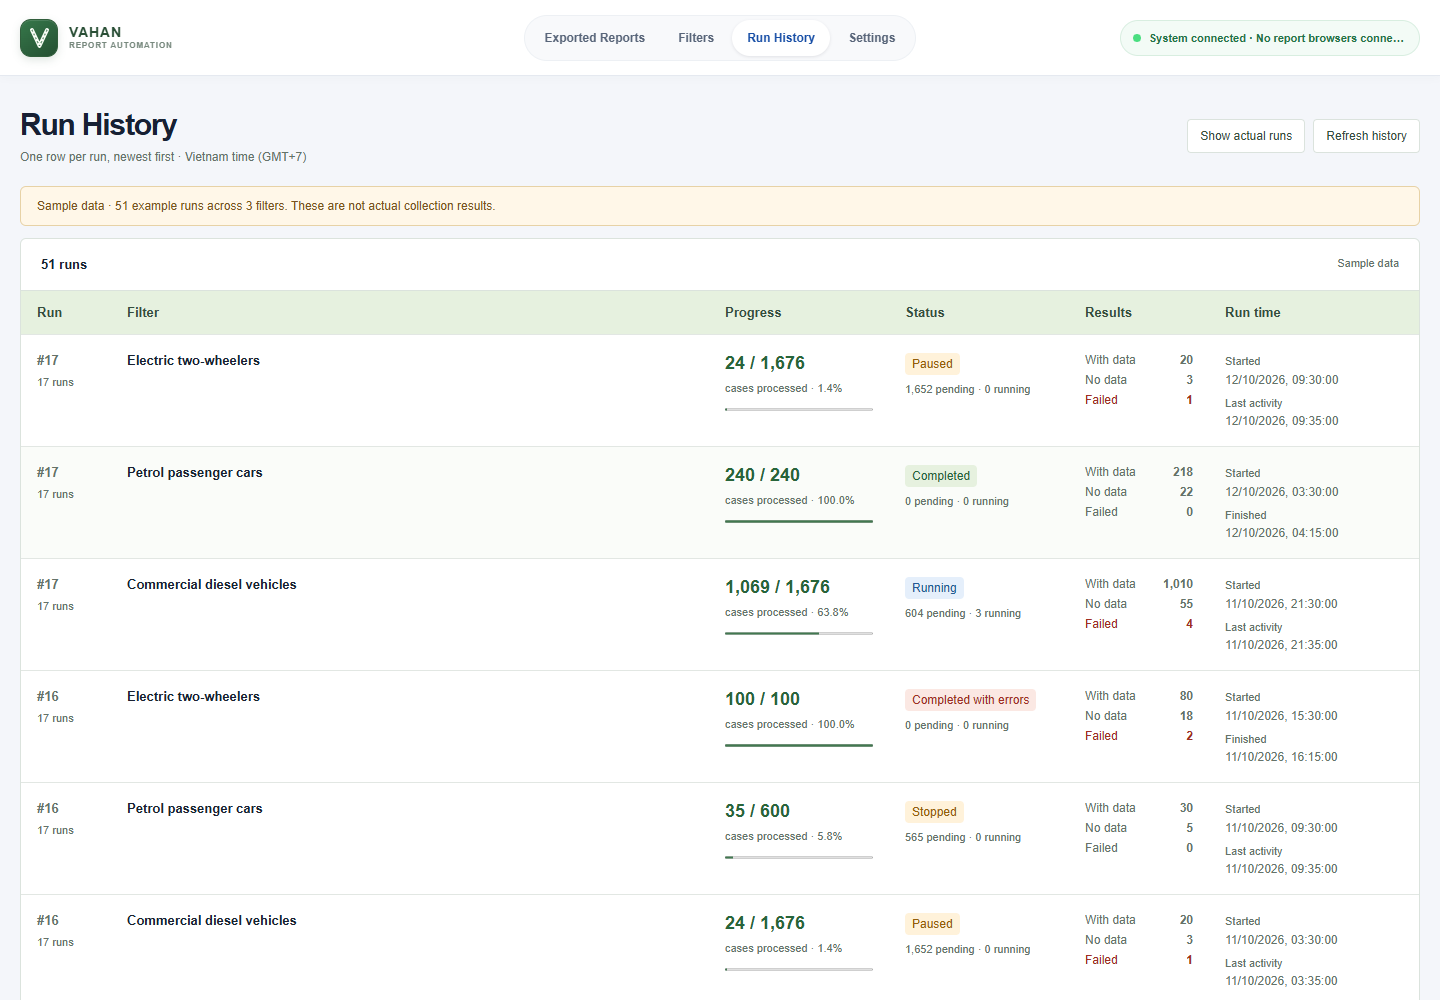
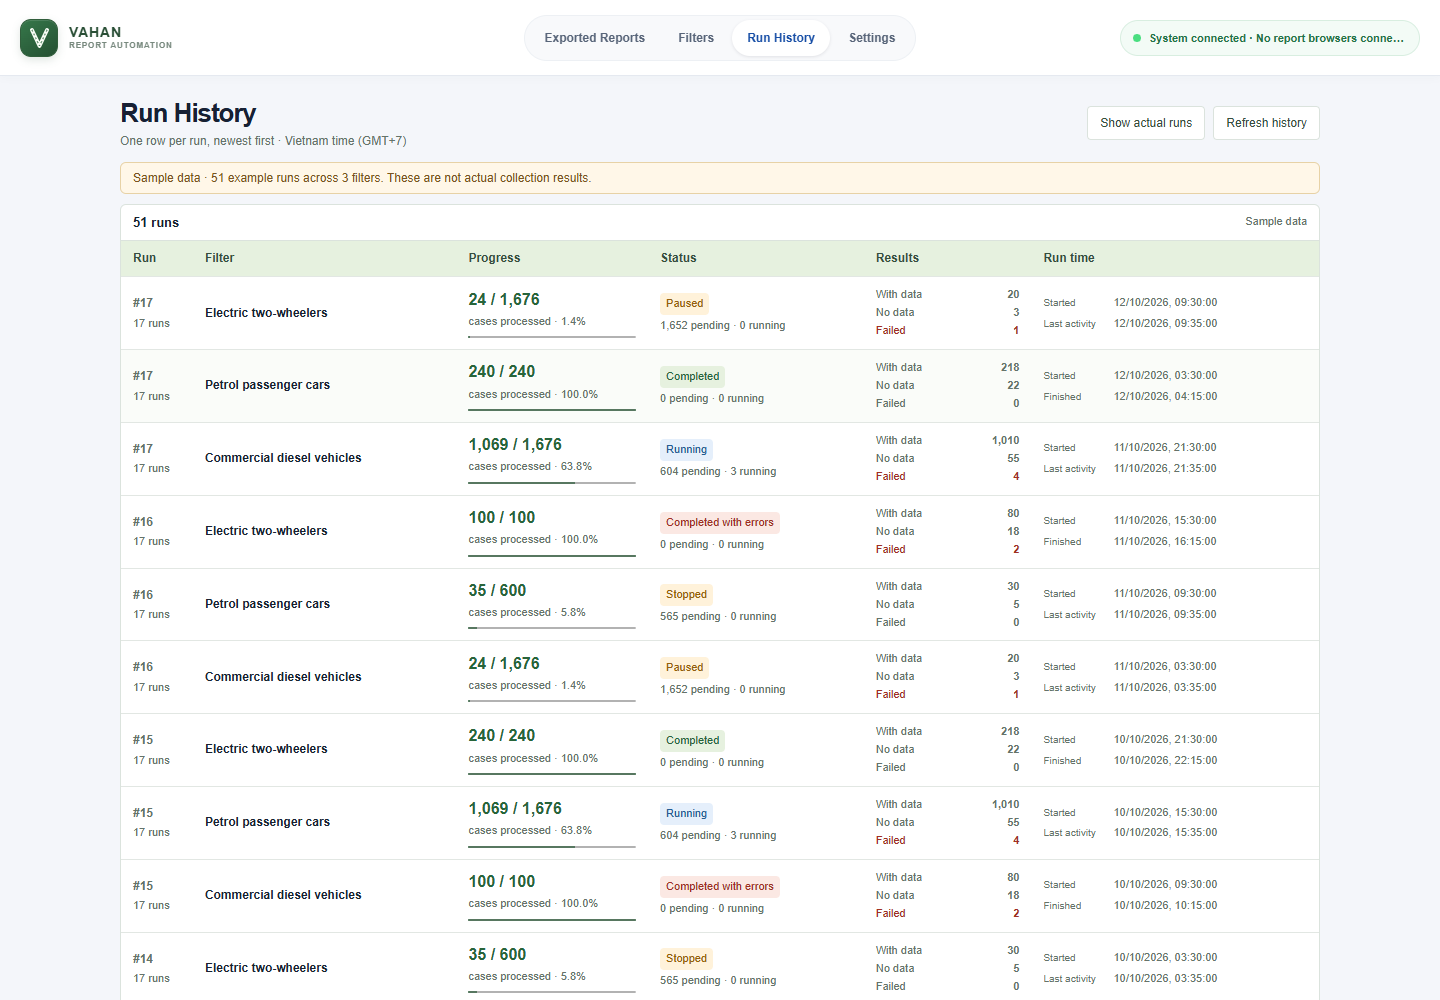
style(ui): compact Run History spacing and column layout
Bound the table width and balance column proportions to reduce empty space. Shorten rows, align time labels inline and use a compact responsive layout while retaining all run details.

Validation: Docker production build and mocked browser checks passed, including row height, column width and mobile overflow assertions.

diff --git a/apps/web-ui/src/styles.css b/apps/web-ui/src/styles.css
@@ -921,56 +921,63 @@ button:focus-visible,a:focus-visible,select:focus-visible { outline:3px solid rg
 
 /* Run configuration uses the saved profile's reporting year. */
 
-.run-history-page { width:calc(100% - 40px); max-width:none; padding:32px 0 64px; }
-.run-history-intro { align-items:center; gap:16px; margin-bottom:22px; }
-.run-history-intro h2 { font-size:30px; }
-.run-history-intro p { margin:8px 0 0; color:#65736a; font-size:12px; }
+.run-history-page { width:calc(100% - 40px); max-width:1200px; padding:22px 0 48px; }
+.run-history-intro { align-items:center; gap:12px; margin-bottom:14px; }
+.run-history-intro h2 { font-size:26px; }
+.run-history-intro p { margin:5px 0 0; color:#65736a; font-size:12px; }
 .run-history-actions { display:flex; flex-wrap:wrap; gap:8px; }
-.run-history-sample-notice { padding:12px 16px; border:1px solid #e7d2a6; border-radius:6px; background:#fff7e8; color:#79551f; font-size:12px; }
+.run-history-sample-notice { margin:0 0 10px; padding:8px 12px; border:1px solid #e7d2a6; border-radius:6px; background:#fff7e8; color:#79551f; font-size:12px; }
 .run-history-page button { width:auto; min-height:34px; padding:7px 12px; border:1px solid #dbe3dd; border-radius:4px; color:#354e3e; background:#fff; font-size:12px; }
 .run-history-page button:disabled { opacity:.5; cursor:default; }
 .run-history-page [role="alert"] { color:#a02f22; }
 .run-history-panel { overflow:hidden; border:1px solid #dbe3dd; border-radius:6px; background:#fff; }
-.run-history-summary { display:flex; justify-content:space-between; gap:12px; padding:18px 20px; border-bottom:1px solid #dbe3dd; font-size:13px; }
+.run-history-summary { display:flex; justify-content:space-between; gap:12px; padding:10px 12px; border-bottom:1px solid #dbe3dd; font-size:13px; }
 .run-history-summary span { color:#65736a; font-size:11px; }
-.run-history-table { width:100%; table-layout:fixed; border-collapse:collapse; font-size:13px; }
-.run-history-table thead th { padding:14px 16px; background:#e6f1df; color:#354e3e; text-align:left; }
-.run-history-table thead th:first-child { width:90px; }
-.run-history-table thead th:nth-child(3) { width:180px; }
-.run-history-table thead th:nth-child(4) { width:180px; }
-.run-history-table thead th:nth-child(5) { width:140px; }
-.run-history-table thead th:last-child { width:210px; }
-.run-history-table tbody :is(th,td) { padding:18px 16px; border-top:1px solid #e2e7e3; text-align:left; vertical-align:top; overflow-wrap:anywhere; }
+.run-history-table { width:100%; table-layout:fixed; border-collapse:collapse; font-size:12px; line-height:1.45; }
+.run-history-table thead th { padding:9px 12px; background:#e6f1df; color:#354e3e; text-align:left; }
+.run-history-table thead th:first-child { width:6%; }
+.run-history-table thead th:nth-child(2) { width:22%; }
+.run-history-table thead th:nth-child(3) { width:16%; }
+.run-history-table thead th:nth-child(4) { width:18%; }
+.run-history-table thead th:nth-child(5) { width:14%; }
+.run-history-table thead th:last-child { width:24%; }
+.run-history-table tbody :is(th,td) { padding:10px 12px; border-top:1px solid #e2e7e3; text-align:left; vertical-align:middle; overflow-wrap:anywhere; }
 .run-history-table tbody th { font-weight:600; }
 .run-history-table tbody td { color:#65736a; }
 .run-history-table tbody tr:hover { background:#fafcf9; }
-.run-history-table small { display:block; margin-top:6px; color:#65736a; font-size:11px; line-height:1.5; }
-.run-history-progress strong { color:#28653a; font-size:18px; }
-.run-history-progress progress { display:block; width:100%; height:5px; margin-top:10px; accent-color:#39794a; }
-.run-history-status { display:inline-block; padding:4px 7px; border-radius:4px; background:#edf1ed; color:#526557; font-size:12px; }
+.run-history-table small { display:block; margin-top:3px; color:#65736a; font-size:11px; line-height:1.4; }
+.run-history-progress strong { color:#28653a; font-size:16px; }
+.run-history-progress progress { display:block; width:100%; height:4px; margin-top:6px; accent-color:#39794a; }
+.run-history-status { display:inline-block; padding:3px 6px; border-radius:4px; background:#edf1ed; color:#526557; font-size:11px; }
 .run-history-status[data-status="RUNNING"] { background:#e5effb; color:#245c94; }
 .run-history-status[data-status="COMPLETED"] { background:#e6f1df; color:#28653a; }
 .run-history-status:is([data-status="PAUSED"],[data-status="PAUSING"],[data-status="STOPPED"]) { background:#fff2da; color:#94600c; }
 .run-history-status:is([data-status="COMPLETED_WITH_ERRORS"],[data-status="ERROR"]),.run-history-results .has-failures { color:#a02f22; }
 .run-history-status:is([data-status="COMPLETED_WITH_ERRORS"],[data-status="ERROR"]) { background:#fbe8e3; }
-.run-history-results { display:grid; gap:6px; font-size:12px; }
+.run-history-results { display:grid; gap:2px; font-size:11px; }
 .run-history-results span { display:flex; justify-content:space-between; gap:8px; }
-.run-history-times { display:grid; gap:8px; font-size:12px; }
-.run-history-times small { margin:0 0 3px; }
-.run-history-note { margin:0; padding:12px 16px; border-top:1px solid #e2e7e3; color:#65736a; font-size:11px; }
+.run-history-times { display:grid; gap:5px; font-size:11px; }
+.run-history-times > span { display:grid; grid-template-columns:65px minmax(0,1fr); gap:5px; align-items:baseline; }
+.run-history-times small { margin:0; font-size:10px; }
+.run-history-note { margin:0; padding:9px 12px; border-top:1px solid #e2e7e3; color:#65736a; font-size:11px; }
 .run-history-empty { padding:24px 20px; color:#65736a; font-size:13px; }
-.run-history-pagination { display:flex; justify-content:space-between; align-items:center; gap:12px; padding:16px 20px; border-top:1px solid #dbe3dd; font-size:12px; }
+.run-history-pagination { display:flex; justify-content:space-between; align-items:center; gap:12px; padding:10px 12px; border-top:1px solid #dbe3dd; font-size:12px; }
 .run-history-pagination > div { display:flex; gap:8px; }
 @media(max-width:1050px) {
-  .run-history-page { width:calc(100% - 28px); padding-top:24px; }
-  .run-history-intro h2 { font-size:25px; }
+  .run-history-page { width:calc(100% - 28px); padding-top:18px; }
+  .run-history-intro h2 { font-size:24px; }
   .run-history-intro { flex-wrap:wrap; }
   .run-history-table thead { display:none; }
-  .run-history-table tbody tr { display:flex; flex-direction:column; gap:10px; padding:16px; border-top:1px solid #e2e7e3; }
-  .run-history-table tbody :is(th,td) { display:grid; grid-template-columns:72px minmax(0,1fr); gap:12px; padding:0; border:0; }
+  .run-history-table tbody tr { display:grid; grid-template-columns:repeat(2,minmax(0,1fr)); gap:10px 18px; padding:12px; border-top:1px solid #e2e7e3; }
+  .run-history-table tbody :is(th,td) { display:grid; grid-template-columns:68px minmax(0,1fr); gap:8px; padding:0; border:0; align-items:start; }
   .run-history-table tbody :is(th,td)::before { content:attr(data-label); color:#65736a; font-size:11px; font-weight:400; }
-  .run-history-table tbody th { order:-1; }
-  .run-history-summary,.run-history-pagination { padding:16px; }
+  .run-history-table tbody th { order:-1; grid-column:1/-1; }
+  .run-history-table tbody td[data-label="Run time"] { grid-column:1/-1; }
+  .run-history-summary,.run-history-pagination { padding:10px 12px; }
+}
+@media(max-width:600px) {
+  .run-history-table tbody tr { grid-template-columns:minmax(0,1fr); gap:8px; }
+  .run-history-times > span { grid-template-columns:minmax(0,1fr); gap:1px; }
 }
 
 /* Anchored value menus retain fixed filter rows and escape clipping through the top layer. */
